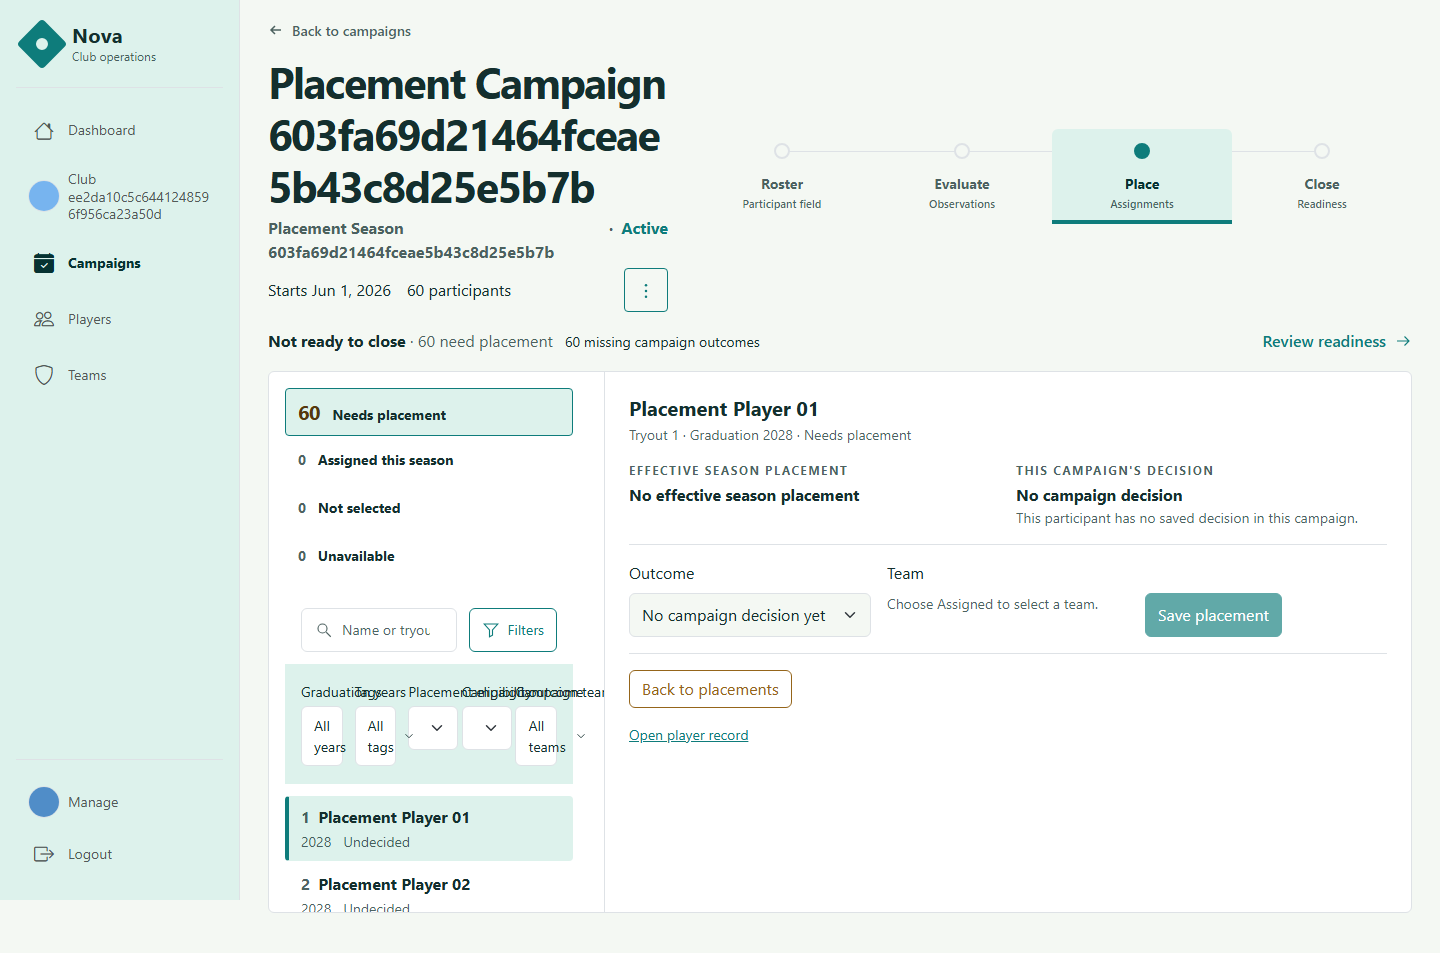
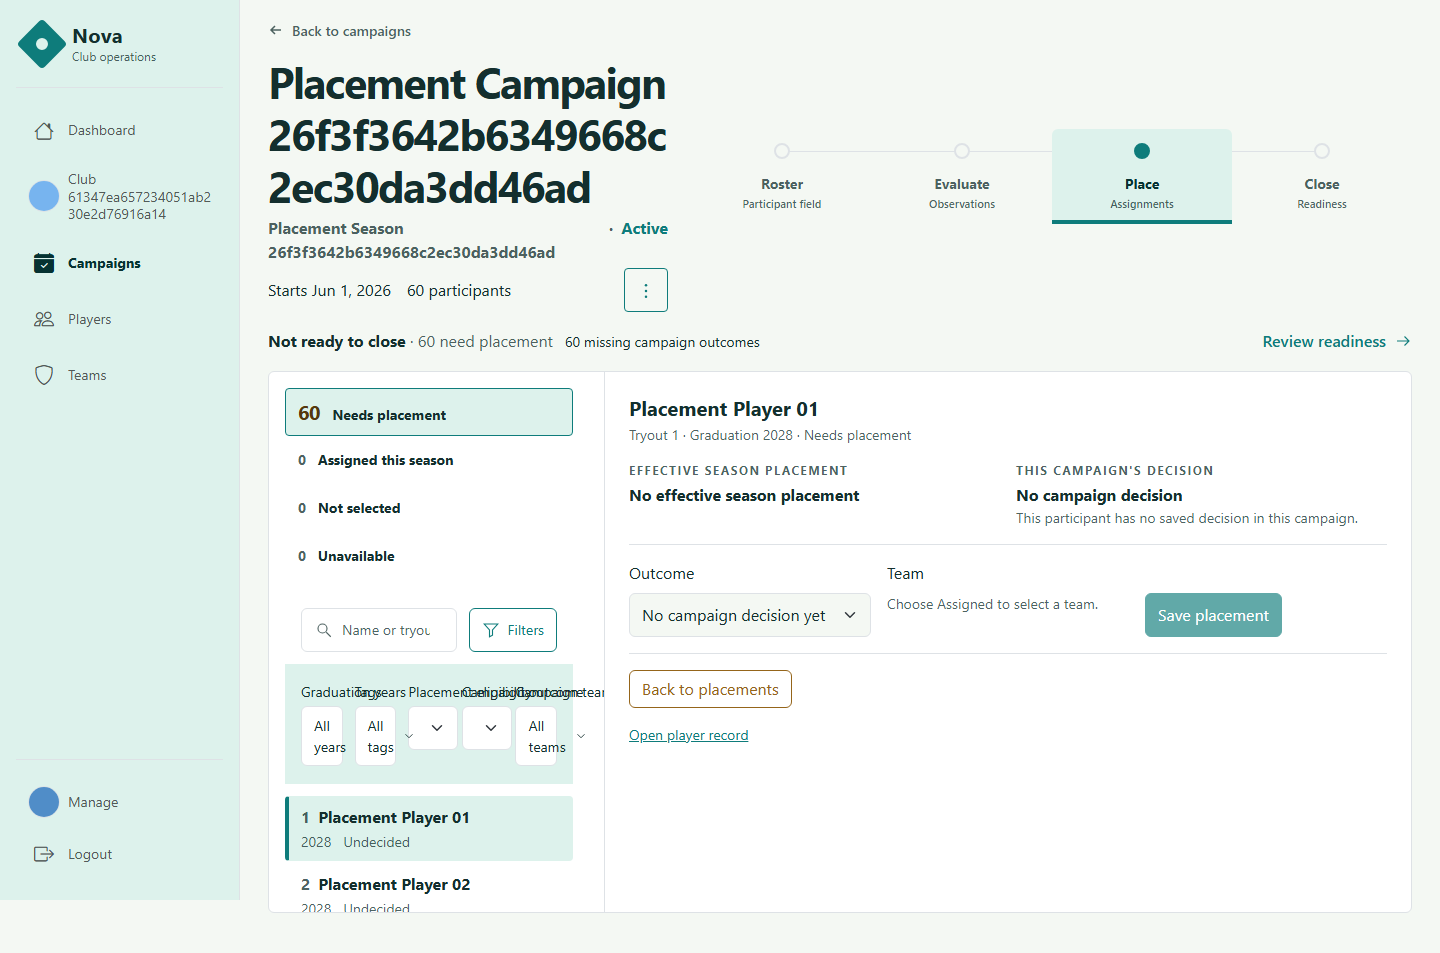
Address the third Copilot review round on the Place surface (#255)
Six findings, all valid and all fixed.

Honest evidence and state tracking:
- The env-gated capture test returned early, which recorded a green result
  for assertions that never ran. It now calls Assert.Skip, verified by a run
  without the variable reporting skipped rather than succeeded.
- Restoring a filtered snapshot did not rebuild the canonical comparison key
  or the search draft, so any non-default URL looked changed on interactive
  attach, triggered a duplicate fetch, and would have rendered a blank search
  control. Both derived values are rebuilt with the snapshot.
- A failed load advanced the applied state but not its comparison key, so
  every later parent render still saw a change and reissued the same failing
  request. The key and draft advance too; only the explicit Retry reissues.

Correctness of what the surface offers:
- A selection-only URL change deferred during a save was dropped on refused
  outcomes, leaving the URL selecting one player while the sheet and the next
  save targeted another. The deferred selection is now reconciled on every
  outcome.
- The editable gate covered participants the server guarantees cannot be
  changed: an archived player, and a locally withdrawn decision that is
  terminal in its owning campaign. The row now carries the player lifecycle,
  and both cases render a written reason instead of controls that could only
  be refused.
- Selection transitions on the staged narrow layout hid the stage holding
[…]

Changed region(s): [[0.1875, 0.1217, 0.4688, 0.213], [0.1875, 0.2434, 0.4062, 0.2739], [0.0312, 0.1826, 0.1562, 0.2434]]

diff --git a/Nova.UI/Features/Campaigns/Components/CampaignPlacePanel.razor.cs b/Nova.UI/Features/Campaigns/Components/CampaignPlacePanel.razor.cs
@@ -275,6 +275,18 @@ public partial class CampaignPlacePanel(
     /// <summary>The conflict statement element that receives focus when a save is refused.</summary>
     private ElementReference _conflictBanner;
 
+    /// <summary>The queue region heading, focused when a selection returns to the queue.</summary>
+    private ElementReference _queueHeading;
+
+    /// <summary>The sheet region heading, focused when a participant is selected.</summary>
+    private ElementReference _sheetHeading;
+
+    /// <summary>
+    /// The focus destination requested by the most recent selection transition: <see langword="true"/> for the
+    /// sheet, <see langword="false"/> for the queue, <see langword="null"/> when none is pending.
+    /// </summary>
+    private bool? _stageFocusTarget;
+
     /// <summary>Indicates a reconcile reload triggered by the conflict recovery is in flight.</summary>
     private bool _reconciling;
 
@@ -284,9 +296,25 @@ public partial class CampaignPlacePanel(
     private bool IsClosed => CampaignStatus != CampaignStatus.Active;
 
     /// <summary>
+    /// Gets a value indicating whether the selected participant can still receive a decision in this
+    /// campaign. An archived player and a locally withdrawn decision are both terminal here, and the server
+    /// would refuse either, so the controls must not be offered at all.
+    /// </summary>
+    private bool IsDecisionAllowed => _selected is { } selected
+        && selected.PlayerLifecycleStatus is null or LifecycleStatus.Active
+        && selected.LocalOutcome != PlacementOutcome.Withdrawn;
+
+    /// <summary>
     /// Gets a value indicating whether the decision controls are editable.
     /// </summary>
-    private bool CanRecordDecision => CanEditPlacements && !IsClosed && !_conflictActive;
+    private bool CanRecordDecision => CanEditPlacements && !IsClosed && !_conflictActive && IsDecisionAllowed;
+
+    /// <summary>
+    /// Gets the written reason a selected participant cannot receive a decision here.
+    /// </summary>
+    private string DecisionUnavailableReason => _selected?.PlayerLifecycleStatus is not null and not LifecycleStatus.Active
+        ? "This player is archived, so no placement decision can be recorded."
+        : "This player is withdrawn for the season. Only a superseding decision in a later active campaign can change it.";
 
     /// <inheritdoc />
     protected override async Task OnInitializedAsync()
@@ -359,6 +387,25 @@ public partial class CampaignPlacePanel(
     /// <inheritdoc />
     protected override async Task OnAfterRenderAsync(bool firstRender)
     {
+        // On viewports where the queue and the sheet are staged, a selection transition hides the stage the
+        // member was focused in, so focus has to move to the stage that replaced it.
+        if (!firstRender && _stageFocusTarget is { } focusSheet)
+        {
+            _stageFocusTarget = null;
+            var target = focusSheet ? _sheetHeading : _queueHeading;
+            if (target.Context is not null)
+            {
+                try
+                {
+                    await target.FocusAsync();
+                }
+                catch (InvalidOperationException)
+                {
+                    // The region left the DOM between render and focus; its heading is still announced.
+                }
+            }
+        }
+
         if (_shouldFocusConflict && _conflictBanner.Context is not null)
         {
             _shouldFocusConflict = false;
@@ -431,6 +478,8 @@ public partial class CampaignPlacePanel(
     private void RestorePersistedQueue(CampaignPlacePersistedSnapshot persisted)
     {
         _appliedState = State;
+        _appliedQueryString = QueryKey(State);
+        _searchDraft = State.Search ?? string.Empty;
 
         // The applied participant is deliberately left unset. The snapshot carries rows but not compatible
         // team choices, and an off-page selection is not in those rows at all, so marking the selection as

diff --git a/Nova.Unit.Tests/Campaigns/CampaignPlacePanelTests.Mutations.cs b/Nova.Unit.Tests/Campaigns/CampaignPlacePanelTests.Mutations.cs
@@ -258,6 +258,36 @@ public sealed partial class CampaignPlacePanelTests
         cut.FindAll("#place-outcome option").Count.ShouldBeGreaterThan(1);
     }
 
+    [Fact]
+    public void AnArchivedPlayerOffersNoDecisionControls()
+    {
+        // The server refuses a decision for an archived player, so the surface must not offer one.
+        RegisterServices(rows: [CreateRow(301) with { PlayerLifecycleStatus = LifecycleStatus.Archived }]);
+
+        var cut = RenderPanel(selectedParticipantId: 301);
+        cut.WaitForAssertion(() => cut.FindAll(".place-name").Count.ShouldBe(1));
+
+        cut.FindAll("#place-outcome").ShouldBeEmpty();
+        cut.FindAll("button.btn-primary").ShouldBeEmpty();
+        cut.Markup.ShouldContain("This player is archived");
+    }
+
+    [Fact]
+    public void ALocallyWithdrawnDecisionOffersNoDecisionControls()
+    {
+        // Withdrawn is terminal in its owning campaign, so the only recovery belongs to a later campaign.
+        RegisterServices(rows:
+        [
+            CreateRow(301) with { LocalDecision = CreateDecision(301, PlacementOutcome.Withdrawn, null) }
+        ]);
+
+        var cut = RenderPanel(selectedParticipantId: 301);
+        cut.WaitForAssertion(() => cut.FindAll(".place-name").Count.ShouldBe(1));
+
+        cut.FindAll("#place-outcome").ShouldBeEmpty();
+        cut.Markup.ShouldContain("withdrawn for the season");
+    }
+
     // ── Helpers ────────────────────────────────────────────────────────────────
 
     private static AngleSharp.Dom.IElement SaveButton(IRenderedComponent<Nova.UI.Features.Campaigns.Components.CampaignPlacePanel> cut)

diff --git a/Nova.UI/Features/Campaigns/Components/CampaignPlaceQueueRow.cs b/Nova.UI/Features/Campaigns/Components/CampaignPlaceQueueRow.cs
@@ -55,6 +55,12 @@ public sealed record CampaignPlaceQueueRow
     /// <summary>The local mutation token, or <see langword="null"/> for a Closed immutable record.</summary>
     public Guid? ConcurrencyToken { get; init; }
 
+    /// <summary>
+    /// The player's lifecycle, or <see langword="null"/> for a Closed record whose read does not carry it.
+    /// An archived player cannot receive a decision.
+    /// </summary>
+    public LifecycleStatus? PlayerLifecycleStatus { get; init; }
+
     /// <summary>Campaign-applied tags enriched by the read.</summary>
     public IReadOnlyList<CampaignParticipantTagSummaryDto> AppliedTags { get; init; } = [];
 
@@ -91,6 +97,7 @@ public sealed record CampaignPlaceQueueRow
             Eligibility = item.Eligibility,
             CorrectionReason = item.CorrectionReason,
             ConcurrencyToken = item.ConcurrencyToken,
+            PlayerLifecycleStatus = item.PlayerLifecycleStatus,
             AppliedTags = item.AppliedTags
         };
     }

diff --git a/Nova.UI/Features/Campaigns/Components/CampaignPlacePanel.Mutations.cs b/Nova.UI/Features/Campaigns/Components/CampaignPlacePanel.Mutations.cs
@@ -342,14 +342,20 @@ public partial class CampaignPlacePanel
     /// <returns>A task that completes when the pending state has been applied.</returns>
     private async Task ApplyPendingStateAsync()
     {
-        if (_pendingState is not { } pending)
+        if (_pendingState is { } pending)
         {
+            _pendingState = null;
+            await LoadQueueAsync(pending);
+            await RefreshSelectionAsync();
             return;
         }
 
-        _pendingState = null;
-        await LoadQueueAsync(pending);
-        await RefreshSelectionAsync();
+        // A participant-only change deferred during the save has to be reconciled even when the outcome was
+        // refused, or the sheet and the next save would keep targeting the participant the URL moved past.
+        if (_appliedParticipantId != SelectedParticipantId)
+        {
+            await RefreshSelectionAsync();
+        }
     }
 
     /// <summary>

diff --git a/Nova.UI/Features/Campaigns/Components/CampaignPlacePanel.Queue.cs b/Nova.UI/Features/Campaigns/Components/CampaignPlacePanel.Queue.cs
@@ -122,9 +122,12 @@ public partial class CampaignPlacePanel
             // A failed load keeps whatever was already on screen but marks it stale, so an
             // exact-looking total is never presented beside a read that did not answer. The applied
             // lifecycle marker still advances: the posture was decided, and repeating the same failing
-            // read on every parameter pass would not make it succeed.
+            // read on every parameter pass would not make it succeed. The comparison key advances with
+            // it, so only the explicit Retry reissues the request.
             _appliedState = state;
             _appliedStatus = status;
+            _appliedQueryString = QueryKey(state);
+            _searchDraft = state.Search ?? string.Empty;
             _queueError = QueueFailureMessage;
             _queueStale = _queue is not null;
             return;

diff --git a/Nova.UI/Features/Campaigns/Components/CampaignPlacePanel.Selection.cs b/Nova.UI/Features/Campaigns/Components/CampaignPlacePanel.Selection.cs
@@ -22,7 +22,18 @@ public partial class CampaignPlacePanel
     private async Task RefreshSelectionAsync(bool force = false)
     {
         var participantId = SelectedParticipantId;
+        var previousParticipantId = _appliedParticipantId;
         _appliedParticipantId = participantId;
+
+        // Focus follows the stage that replaced the one the member was in.
+        if (previousParticipantId is null && participantId is not null)
+        {
+            _stageFocusTarget = true;
+        }
+        else if (previousParticipantId is not null && participantId is null)
+        {
+            _stageFocusTarget = false;
+        }
 
         // Every entry invalidates any in-flight selection read, including the branches that resolve without
         // a server round trip. Otherwise a read started for a previous participant can land after the user

diff --git a/Nova.Browser.Tests/CampaignPlaceBrowserTests.cs b/Nova.Browser.Tests/CampaignPlaceBrowserTests.cs
@@ -254,7 +254,7 @@ public sealed class CampaignPlaceBrowserTests(BrowserSuiteFixture fixture)
         var directory = Environment.GetEnvironmentVariable("NOVA_PLACE_EVIDENCE");
         if (string.IsNullOrWhiteSpace(directory))
         {
-            return;
+            Assert.Skip("Set NOVA_PLACE_EVIDENCE to a directory to capture the Place surface evidence.");
         }
 
         var seed = await PlacementSeed.SeedAsync(fixture.AppHost, TestContext.Current.CancellationToken);
